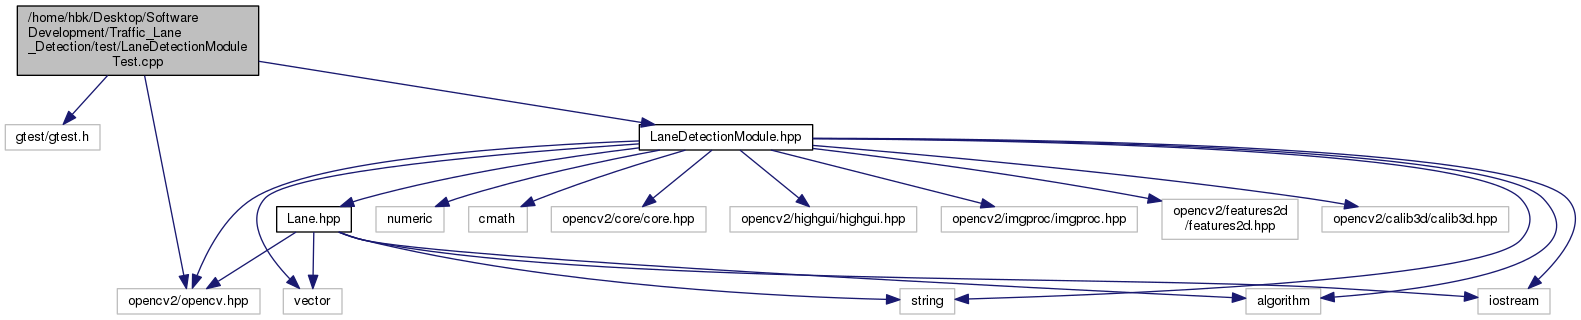
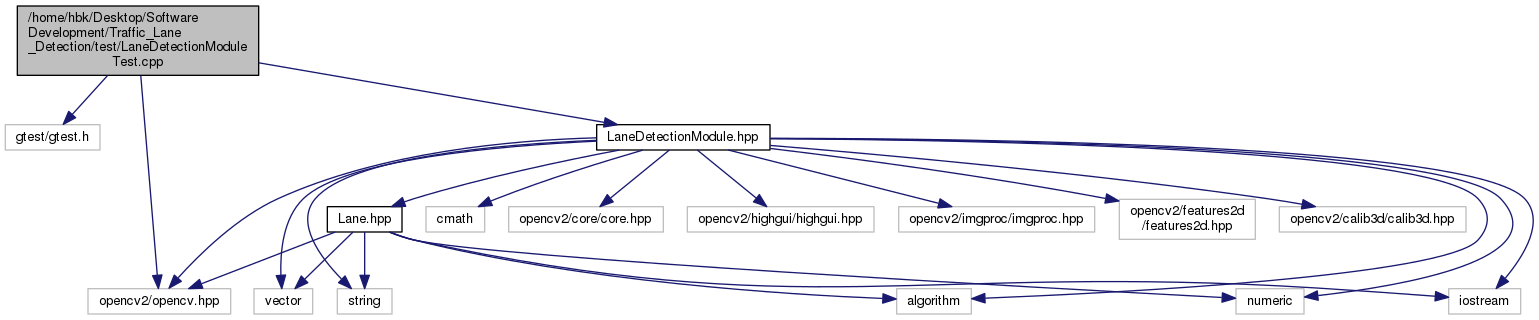
Doc:[Task Doc_2_06] Update Doxygen files

diff --git a/Doxygen/html/Lane_8hpp_source.html b/Doxygen/html/Lane_8hpp_source.html
@@ -88,7 +88,7 @@ var searchBox = new SearchBox("searchBox", "search",false,'Search');
 <div class="title">Lane.hpp</div>  </div>
 </div><!--header-->
 <div class="contents">
-<a href="Lane_8hpp.html">Go to the documentation of this file.</a><div class="fragment"><div class="line"><a name="l00001"></a><span class="lineno">    1</span>&#160;<span class="comment">/************************************************************************</span></div><div class="line"><a name="l00002"></a><span class="lineno">    2</span>&#160;<span class="comment"> MIT License</span></div><div class="line"><a name="l00003"></a><span class="lineno">    3</span>&#160;<span class="comment"></span></div><div class="line"><a name="l00004"></a><span class="lineno">    4</span>&#160;<span class="comment"> Copyright (c) 2018 Harsh Kakashaniya, Rohitkrishna Nambiar</span></div><div class="line"><a name="l00005"></a><span class="lineno">    5</span>&#160;<span class="comment"></span></div><div class="line"><a name="l00006"></a><span class="lineno">    6</span>&#160;<span class="comment"> Permission is hereby granted, free of charge, to any person obtaining a copy</span></div><div class="line"><a name="l00007"></a><span class="lineno">    7</span>&#160;<span class="comment"> of this software and associated documentation files (the &quot;Software&quot;), to deal</span></div><div class="line"><a name="l00008"></a><span class="lineno">    8</span>&#160;<span class="comment"> in the Software without restriction, including without limitation the rights</span></div><div class="line"><a name="l00009"></a><span class="lineno">    9</span>&#160;<span class="comment"> to use, copy, modify, merge, publish, distribute, sublicense, and/or sell</span></div><div class="line"><a name="l00010"></a><span class="lineno">   10</span>&#160;<span class="comment"> copies of the Software, and to permit persons to whom the Software is</span></div><div class="line"><a name="l00011"></a><span class="lineno">   11</span>&#160;<span class="comment"> furnished to do so, subject to the following conditions:</span></div><div class="line"><a name="l00012"></a><span class="lineno">   12</span>&#160;<span class="comment"></span></div><div class="line"><a name="l00013"></a><span class="lineno">   13</span>&#160;<span class="comment"> The above copyright notice and this permission notice shall be included in all</span></div><div class="line"><a name="l00014"></a><span class="lineno">   14</span>&#160;<span class="comment"> copies or substantial portions of the Software.</span></div><div class="line"><a name="l00015"></a><span class="lineno">   15</span>&#160;<span class="comment"></span></div><div class="line"><a name="l00016"></a><span class="lineno">   16</span>&#160;<span class="comment"> THE SOFTWARE IS PROVIDED &quot;AS IS&quot;, WITHOUT WARRANTY OF ANY KIND, EXPRESS OR</span></div><div class="line"><a name="l00017"></a><span class="lineno">   17</span>&#160;<span class="comment"> IMPLIED, INCLUDING BUT NOT LIMITED TO THE WARRANTIES OF MERCHANTABILITY,</span></div><div class="line"><a name="l00018"></a><span class="lineno">   18</span>&#160;<span class="comment"> FITNESS FOR A PARTICULAR PURPOSE AND NONINFRINGEMENT. IN NO EVENT SHALL THE</span></div><div class="line"><a name="l00019"></a><span class="lineno">   19</span>&#160;<span class="comment"> AUTHORS OR COPYRIGHT HOLDERS BE LIABLE FOR ANY CLAIM, DAMAGES OR OTHER</span></div><div class="line"><a name="l00020"></a><span class="lineno">   20</span>&#160;<span class="comment"> LIABILITY, WHETHER IN AN ACTION OF CONTRACT, TORT OR OTHERWISE, ARISING FROM,</span></div><div class="line"><a name="l00021"></a><span class="lineno">   21</span>&#160;<span class="comment"> OUT OF OR IN CONNECTION WITH THE SOFTWARE OR THE USE OR OTHER DEALINGS IN THE</span></div><div class="line"><a name="l00022"></a><span class="lineno">   22</span>&#160;<span class="comment"> SOFTWARE.</span></div><div class="line"><a name="l00023"></a><span class="lineno">   23</span>&#160;<span class="comment"> *************************************************************************/</span></div><div class="line"><a name="l00024"></a><span class="lineno">   24</span>&#160;</div><div class="line"><a name="l00040"></a><span class="lineno">   40</span>&#160;<span class="preprocessor">#ifndef INCLUDE_LANE_HPP_</span></div><div class="line"><a name="l00041"></a><span class="lineno">   41</span>&#160;<span class="preprocessor">#define INCLUDE_LANE_HPP_</span></div><div class="line"><a name="l00042"></a><span class="lineno">   42</span>&#160;</div><div class="line"><a name="l00043"></a><span class="lineno">   43</span>&#160;<span class="preprocessor">#include &lt;iostream&gt;</span></div><div class="line"><a name="l00044"></a><span class="lineno">   44</span>&#160;<span class="preprocessor">#include &lt;vector&gt;</span></div><div class="line"><a name="l00045"></a><span class="lineno">   45</span>&#160;<span class="preprocessor">#include &lt;string&gt;</span></div><div class="line"><a name="l00046"></a><span class="lineno">   46</span>&#160;<span class="preprocessor">#include &lt;algorithm&gt;</span></div><div class="line"><a name="l00047"></a><span class="lineno">   47</span>&#160;<span class="preprocessor">#include &lt;opencv2/opencv.hpp&gt;</span></div><div class="line"><a name="l00048"></a><span class="lineno">   48</span>&#160;</div><div class="line"><a name="l00049"></a><span class="lineno"><a class="line" href="classLane.html">   49</a></span>&#160;<span class="keyword">class </span><a class="code" href="classLane.html">Lane</a> {</div><div class="line"><a name="l00050"></a><span class="lineno">   50</span>&#160; <span class="keyword">public</span>:</div><div class="line"><a name="l00056"></a><span class="lineno">   56</span>&#160;  <a class="code" href="classLane.html#affd642d537d96c03cb7fe8c8d46d37b4">Lane</a>();</div><div class="line"><a name="l00057"></a><span class="lineno">   57</span>&#160;</div><div class="line"><a name="l00067"></a><span class="lineno">   67</span>&#160;  <a class="code" href="classLane.html#affd642d537d96c03cb7fe8c8d46d37b4">Lane</a>(<span class="keywordtype">int</span> polyOrder, std::string color, <span class="keywordtype">int</span> averagingCount);</div><div class="line"><a name="l00068"></a><span class="lineno">   68</span>&#160;</div><div class="line"><a name="l00072"></a><span class="lineno">   72</span>&#160;  <a class="code" href="classLane.html#a1c023c4eca02fb9a52365b7f6c04d7d4">~Lane</a>();</div><div class="line"><a name="l00073"></a><span class="lineno">   73</span>&#160;</div><div class="line"><a name="l00074"></a><span class="lineno">   74</span>&#160;  <span class="comment">/*</span></div><div class="line"><a name="l00075"></a><span class="lineno">   75</span>&#160;<span class="comment">   *  @brief Calculates the center x-coordinate averageof the first sliding</span></div><div class="line"><a name="l00076"></a><span class="lineno">   76</span>&#160;<span class="comment">   *        window</span></div><div class="line"><a name="l00077"></a><span class="lineno">   77</span>&#160;<span class="comment">   *</span></div><div class="line"><a name="l00078"></a><span class="lineno">   78</span>&#160;<span class="comment">   *  @param coordinate is current x-center co-ordinate</span></div><div class="line"><a name="l00079"></a><span class="lineno">   79</span>&#160;<span class="comment">   *</span></div><div class="line"><a name="l00080"></a><span class="lineno">   80</span>&#160;<span class="comment">   *  @return averaged x-coordinate</span></div><div class="line"><a name="l00081"></a><span class="lineno">   81</span>&#160;<span class="comment">   */</span></div><div class="line"><a name="l00082"></a><span class="lineno">   82</span>&#160;  <span class="keywordtype">int</span> getStableCenter(<span class="keywordtype">int</span> coordinate);</div><div class="line"><a name="l00083"></a><span class="lineno">   83</span>&#160;</div><div class="line"><a name="l00084"></a><span class="lineno">   84</span>&#160;  <span class="comment">/*</span></div><div class="line"><a name="l00085"></a><span class="lineno">   85</span>&#160;<span class="comment">   *  @brief Sets the center coordinate of the first sliding window</span></div><div class="line"><a name="l00086"></a><span class="lineno">   86</span>&#160;<span class="comment">   *</span></div><div class="line"><a name="l00087"></a><span class="lineno">   87</span>&#160;<span class="comment">   *  @param point is current center co-ordinate</span></div><div class="line"><a name="l00088"></a><span class="lineno">   88</span>&#160;<span class="comment">   *</span></div><div class="line"><a name="l00089"></a><span class="lineno">   89</span>&#160;<span class="comment">   */</span></div><div class="line"><a name="l00090"></a><span class="lineno">   90</span>&#160;  <span class="keywordtype">void</span> setStartCoordinate(cv::Point point);</div><div class="line"><a name="l00091"></a><span class="lineno">   91</span>&#160;</div><div class="line"><a name="l00092"></a><span class="lineno">   92</span>&#160;  <span class="comment">/*</span></div><div class="line"><a name="l00093"></a><span class="lineno">   93</span>&#160;<span class="comment">   *  @brief Gets the center coordinate of the first sliding window</span></div><div class="line"><a name="l00094"></a><span class="lineno">   94</span>&#160;<span class="comment">   *</span></div><div class="line"><a name="l00095"></a><span class="lineno">   95</span>&#160;<span class="comment">   *  @return Center coordinate of the first sliding window(lane)</span></div><div class="line"><a name="l00096"></a><span class="lineno">   96</span>&#160;<span class="comment">   */</span></div><div class="line"><a name="l00097"></a><span class="lineno">   97</span>&#160;  cv::Point getStartCoordinate();</div><div class="line"><a name="l00098"></a><span class="lineno">   98</span>&#160;</div><div class="line"><a name="l00099"></a><span class="lineno">   99</span>&#160;  <span class="comment">/*</span></div><div class="line"><a name="l00100"></a><span class="lineno">  100</span>&#160;<span class="comment">   *  @brief Sets the status of lane</span></div><div class="line"><a name="l00101"></a><span class="lineno">  101</span>&#160;<span class="comment">   *</span></div><div class="line"><a name="l00102"></a><span class="lineno">  102</span>&#160;<span class="comment">   *  @param flag is the status of the lane if polynomial found</span></div><div class="line"><a name="l00103"></a><span class="lineno">  103</span>&#160;<span class="comment">   */</span></div><div class="line"><a name="l00104"></a><span class="lineno">  104</span>&#160;  <span class="keywordtype">void</span> setStatus(<span class="keywordtype">bool</span> flag);</div><div class="line"><a name="l00105"></a><span class="lineno">  105</span>&#160;</div><div class="line"><a name="l00106"></a><span class="lineno">  106</span>&#160;  <span class="comment">/*</span></div><div class="line"><a name="l00107"></a><span class="lineno">  107</span>&#160;<span class="comment">   *  @brief Gets the status of lane</span></div><div class="line"><a name="l00108"></a><span class="lineno">  108</span>&#160;<span class="comment">   *</span></div><div class="line"><a name="l00109"></a><span class="lineno">  109</span>&#160;<span class="comment">   *  @return status of the lane</span></div><div class="line"><a name="l00110"></a><span class="lineno">  110</span>&#160;<span class="comment">   */</span></div><div class="line"><a name="l00111"></a><span class="lineno">  111</span>&#160;  <span class="keywordtype">bool</span> getStatus();</div><div class="line"><a name="l00112"></a><span class="lineno">  112</span>&#160;</div><div class="line"><a name="l00113"></a><span class="lineno">  113</span>&#160;  <span class="comment">/*</span></div><div class="line"><a name="l00114"></a><span class="lineno">  114</span>&#160;<span class="comment">   *  @brief Sets the polyOrder of lane</span></div><div class="line"><a name="l00115"></a><span class="lineno">  115</span>&#160;<span class="comment">   *</span></div><div class="line"><a name="l00116"></a><span class="lineno">  116</span>&#160;<span class="comment">   *  @param value is the polyorder of lane</span></div><div class="line"><a name="l00117"></a><span class="lineno">  117</span>&#160;<span class="comment">   */</span></div><div class="line"><a name="l00118"></a><span class="lineno">  118</span>&#160;  <span class="keywordtype">void</span> setPolyOrder(<span class="keywordtype">int</span> value);</div><div class="line"><a name="l00119"></a><span class="lineno">  119</span>&#160;</div><div class="line"><a name="l00120"></a><span class="lineno">  120</span>&#160;  <span class="comment">/*</span></div><div class="line"><a name="l00121"></a><span class="lineno">  121</span>&#160;<span class="comment">   *  @brief Gets the polyOrder of lane</span></div><div class="line"><a name="l00122"></a><span class="lineno">  122</span>&#160;<span class="comment">   *</span></div><div class="line"><a name="l00123"></a><span class="lineno">  123</span>&#160;<span class="comment">   *  @return value is the polyorder of lane</span></div><div class="line"><a name="l00124"></a><span class="lineno">  124</span>&#160;<span class="comment">   */</span></div><div class="line"><a name="l00125"></a><span class="lineno">  125</span>&#160;  <span class="keywordtype">int</span> getPolyOrder();</div><div class="line"><a name="l00126"></a><span class="lineno">  126</span>&#160;</div><div class="line"><a name="l00127"></a><span class="lineno">  127</span>&#160;  <span class="comment">/*</span></div><div class="line"><a name="l00128"></a><span class="lineno">  128</span>&#160;<span class="comment">   *  @brief Sets the polynomial coeff of lane</span></div><div class="line"><a name="l00129"></a><span class="lineno">  129</span>&#160;<span class="comment">   *</span></div><div class="line"><a name="l00130"></a><span class="lineno">  130</span>&#160;<span class="comment">   *  @param coeff is a Mat(1x3) object containing coefficients</span></div><div class="line"><a name="l00131"></a><span class="lineno">  131</span>&#160;<span class="comment">   */</span></div><div class="line"><a name="l00132"></a><span class="lineno">  132</span>&#160;  <span class="keywordtype">void</span> setPolyCoeff(cv::Mat coeff);</div><div class="line"><a name="l00133"></a><span class="lineno">  133</span>&#160;</div><div class="line"><a name="l00134"></a><span class="lineno">  134</span>&#160;  <span class="comment">/*</span></div><div class="line"><a name="l00135"></a><span class="lineno">  135</span>&#160;<span class="comment">   *  @brief Gets the polynomial coeff of lane</span></div><div class="line"><a name="l00136"></a><span class="lineno">  136</span>&#160;<span class="comment">   *</span></div><div class="line"><a name="l00137"></a><span class="lineno">  137</span>&#160;<span class="comment">   *  @return vector containing coefficients</span></div><div class="line"><a name="l00138"></a><span class="lineno">  138</span>&#160;<span class="comment">   */</span></div><div class="line"><a name="l00139"></a><span class="lineno">  139</span>&#160;  std::vector&lt;float&gt; getPolyCoeff();</div><div class="line"><a name="l00140"></a><span class="lineno">  140</span>&#160;</div><div class="line"><a name="l00141"></a><span class="lineno">  141</span>&#160; <span class="keyword">private</span>:</div><div class="line"><a name="l00142"></a><span class="lineno">  142</span>&#160;  <span class="keywordtype">int</span> polyOrder;  <span class="comment">// declare integer for order of line.</span></div><div class="line"><a name="l00143"></a><span class="lineno">  143</span>&#160;  std::string colour;  <span class="comment">// set RGB values for lane colour.</span></div><div class="line"><a name="l00144"></a><span class="lineno">  144</span>&#160;  std::vector&lt;float&gt; polyCoeff;  <span class="comment">// Coefficients for equation</span></div><div class="line"><a name="l00145"></a><span class="lineno">  145</span>&#160;  cv::Point startCoordinates;  <span class="comment">// Reference coordinates for line.</span></div><div class="line"><a name="l00146"></a><span class="lineno">  146</span>&#160;</div><div class="line"><a name="l00147"></a><span class="lineno">  147</span>&#160;  <span class="comment">// Average center to prevent jumps for entire run</span></div><div class="line"><a name="l00148"></a><span class="lineno">  148</span>&#160;  std::vector&lt;int&gt; averagingCenter;</div><div class="line"><a name="l00149"></a><span class="lineno">  149</span>&#160;  <span class="keywordtype">int</span> averagingCount;</div><div class="line"><a name="l00150"></a><span class="lineno">  150</span>&#160;  <span class="keywordtype">int</span> currentAveragingIndex;</div><div class="line"><a name="l00151"></a><span class="lineno">  151</span>&#160;  <span class="keywordtype">bool</span> status;  <span class="comment">// For status for program.</span></div><div class="line"><a name="l00152"></a><span class="lineno">  152</span>&#160;};</div><div class="line"><a name="l00153"></a><span class="lineno">  153</span>&#160;</div><div class="line"><a name="l00154"></a><span class="lineno">  154</span>&#160;<span class="preprocessor">#endif  // INCLUDE_LANE_HPP_</span></div><div class="ttc" id="classLane_html"><div class="ttname"><a href="classLane.html">Lane</a></div><div class="ttdef"><b>Definition:</b> Lane.hpp:49</div></div>
+<a href="Lane_8hpp.html">Go to the documentation of this file.</a><div class="fragment"><div class="line"><a name="l00001"></a><span class="lineno">    1</span>&#160;<span class="comment">/************************************************************************</span></div><div class="line"><a name="l00002"></a><span class="lineno">    2</span>&#160;<span class="comment"> MIT License</span></div><div class="line"><a name="l00003"></a><span class="lineno">    3</span>&#160;<span class="comment"></span></div><div class="line"><a name="l00004"></a><span class="lineno">    4</span>&#160;<span class="comment"> Copyright (c) 2018 Harsh Kakashaniya, Rohitkrishna Nambiar</span></div><div class="line"><a name="l00005"></a><span class="lineno">    5</span>&#160;<span class="comment"></span></div><div class="line"><a name="l00006"></a><span class="lineno">    6</span>&#160;<span class="comment"> Permission is hereby granted, free of charge, to any person obtaining a copy</span></div><div class="line"><a name="l00007"></a><span class="lineno">    7</span>&#160;<span class="comment"> of this software and associated documentation files (the &quot;Software&quot;), to deal</span></div><div class="line"><a name="l00008"></a><span class="lineno">    8</span>&#160;<span class="comment"> in the Software without restriction, including without limitation the rights</span></div><div class="line"><a name="l00009"></a><span class="lineno">    9</span>&#160;<span class="comment"> to use, copy, modify, merge, publish, distribute, sublicense, and/or sell</span></div><div class="line"><a name="l00010"></a><span class="lineno">   10</span>&#160;<span class="comment"> copies of the Software, and to permit persons to whom the Software is</span></div><div class="line"><a name="l00011"></a><span class="lineno">   11</span>&#160;<span class="comment"> furnished to do so, subject to the following conditions:</span></div><div class="line"><a name="l00012"></a><span class="lineno">   12</span>&#160;<span class="comment"></span></div><div class="line"><a name="l00013"></a><span class="lineno">   13</span>&#160;<span class="comment"> The above copyright notice and this permission notice shall be included in all</span></div><div class="line"><a name="l00014"></a><span class="lineno">   14</span>&#160;<span class="comment"> copies or substantial portions of the Software.</span></div><div class="line"><a name="l00015"></a><span class="lineno">   15</span>&#160;<span class="comment"></span></div><div class="line"><a name="l00016"></a><span class="lineno">   16</span>&#160;<span class="comment"> THE SOFTWARE IS PROVIDED &quot;AS IS&quot;, WITHOUT WARRANTY OF ANY KIND, EXPRESS OR</span></div><div class="line"><a name="l00017"></a><span class="lineno">   17</span>&#160;<span class="comment"> IMPLIED, INCLUDING BUT NOT LIMITED TO THE WARRANTIES OF MERCHANTABILITY,</span></div><div class="line"><a name="l00018"></a><span class="lineno">   18</span>&#160;<span class="comment"> FITNESS FOR A PARTICULAR PURPOSE AND NONINFRINGEMENT. IN NO EVENT SHALL THE</span></div><div class="line"><a name="l00019"></a><span class="lineno">   19</span>&#160;<span class="comment"> AUTHORS OR COPYRIGHT HOLDERS BE LIABLE FOR ANY CLAIM, DAMAGES OR OTHER</span></div><div class="line"><a name="l00020"></a><span class="lineno">   20</span>&#160;<span class="comment"> LIABILITY, WHETHER IN AN ACTION OF CONTRACT, TORT OR OTHERWISE, ARISING FROM,</span></div><div class="line"><a name="l00021"></a><span class="lineno">   21</span>&#160;<span class="comment"> OUT OF OR IN CONNECTION WITH THE SOFTWARE OR THE USE OR OTHER DEALINGS IN THE</span></div><div class="line"><a name="l00022"></a><span class="lineno">   22</span>&#160;<span class="comment"> SOFTWARE.</span></div><div class="line"><a name="l00023"></a><span class="lineno">   23</span>&#160;<span class="comment"> *************************************************************************/</span></div><div class="line"><a name="l00024"></a><span class="lineno">   24</span>&#160;</div><div class="line"><a name="l00040"></a><span class="lineno">   40</span>&#160;<span class="preprocessor">#ifndef INCLUDE_LANE_HPP_</span></div><div class="line"><a name="l00041"></a><span class="lineno">   41</span>&#160;<span class="preprocessor">#define INCLUDE_LANE_HPP_</span></div><div class="line"><a name="l00042"></a><span class="lineno">   42</span>&#160;</div><div class="line"><a name="l00043"></a><span class="lineno">   43</span>&#160;<span class="preprocessor">#include &lt;iostream&gt;</span></div><div class="line"><a name="l00044"></a><span class="lineno">   44</span>&#160;<span class="preprocessor">#include &lt;vector&gt;</span></div><div class="line"><a name="l00045"></a><span class="lineno">   45</span>&#160;<span class="preprocessor">#include &lt;string&gt;</span></div><div class="line"><a name="l00046"></a><span class="lineno">   46</span>&#160;<span class="preprocessor">#include &lt;numeric&gt;</span></div><div class="line"><a name="l00047"></a><span class="lineno">   47</span>&#160;<span class="preprocessor">#include &lt;algorithm&gt;</span></div><div class="line"><a name="l00048"></a><span class="lineno">   48</span>&#160;<span class="preprocessor">#include &lt;opencv2/opencv.hpp&gt;</span></div><div class="line"><a name="l00049"></a><span class="lineno">   49</span>&#160;</div><div class="line"><a name="l00050"></a><span class="lineno"><a class="line" href="classLane.html">   50</a></span>&#160;<span class="keyword">class </span><a class="code" href="classLane.html">Lane</a> {</div><div class="line"><a name="l00051"></a><span class="lineno">   51</span>&#160; <span class="keyword">public</span>:</div><div class="line"><a name="l00057"></a><span class="lineno">   57</span>&#160;  <a class="code" href="classLane.html#affd642d537d96c03cb7fe8c8d46d37b4">Lane</a>();</div><div class="line"><a name="l00058"></a><span class="lineno">   58</span>&#160;</div><div class="line"><a name="l00068"></a><span class="lineno">   68</span>&#160;  <a class="code" href="classLane.html#affd642d537d96c03cb7fe8c8d46d37b4">Lane</a>(<span class="keywordtype">int</span> polyOrder, std::string color, <span class="keywordtype">int</span> averagingCount);</div><div class="line"><a name="l00069"></a><span class="lineno">   69</span>&#160;</div><div class="line"><a name="l00073"></a><span class="lineno">   73</span>&#160;  <a class="code" href="classLane.html#a1c023c4eca02fb9a52365b7f6c04d7d4">~Lane</a>();</div><div class="line"><a name="l00074"></a><span class="lineno">   74</span>&#160;</div><div class="line"><a name="l00075"></a><span class="lineno">   75</span>&#160;  <span class="comment">/*</span></div><div class="line"><a name="l00076"></a><span class="lineno">   76</span>&#160;<span class="comment">   *  @brief Calculates the center x-coordinate averageof the first sliding</span></div><div class="line"><a name="l00077"></a><span class="lineno">   77</span>&#160;<span class="comment">   *        window</span></div><div class="line"><a name="l00078"></a><span class="lineno">   78</span>&#160;<span class="comment">   *</span></div><div class="line"><a name="l00079"></a><span class="lineno">   79</span>&#160;<span class="comment">   *  @param coordinate is current x-center co-ordinate</span></div><div class="line"><a name="l00080"></a><span class="lineno">   80</span>&#160;<span class="comment">   *</span></div><div class="line"><a name="l00081"></a><span class="lineno">   81</span>&#160;<span class="comment">   *  @return averaged x-coordinate</span></div><div class="line"><a name="l00082"></a><span class="lineno">   82</span>&#160;<span class="comment">   */</span></div><div class="line"><a name="l00083"></a><span class="lineno">   83</span>&#160;  <span class="keywordtype">int</span> getStableCenter(<span class="keywordtype">int</span> coordinate);</div><div class="line"><a name="l00084"></a><span class="lineno">   84</span>&#160;</div><div class="line"><a name="l00085"></a><span class="lineno">   85</span>&#160;  <span class="comment">/*</span></div><div class="line"><a name="l00086"></a><span class="lineno">   86</span>&#160;<span class="comment">   *  @brief Sets the center coordinate of the first sliding window</span></div><div class="line"><a name="l00087"></a><span class="lineno">   87</span>&#160;<span class="comment">   *</span></div><div class="line"><a name="l00088"></a><span class="lineno">   88</span>&#160;<span class="comment">   *  @param point is current center co-ordinate</span></div><div class="line"><a name="l00089"></a><span class="lineno">   89</span>&#160;<span class="comment">   *</span></div><div class="line"><a name="l00090"></a><span class="lineno">   90</span>&#160;<span class="comment">   */</span></div><div class="line"><a name="l00091"></a><span class="lineno">   91</span>&#160;  <span class="keywordtype">void</span> setStartCoordinate(cv::Point point);</div><div class="line"><a name="l00092"></a><span class="lineno">   92</span>&#160;</div><div class="line"><a name="l00093"></a><span class="lineno">   93</span>&#160;  <span class="comment">/*</span></div><div class="line"><a name="l00094"></a><span class="lineno">   94</span>&#160;<span class="comment">   *  @brief Gets the center coordinate of the first sliding window</span></div><div class="line"><a name="l00095"></a><span class="lineno">   95</span>&#160;<span class="comment">   *</span></div><div class="line"><a name="l00096"></a><span class="lineno">   96</span>&#160;<span class="comment">   *  @return Center coordinate of the first sliding window(lane)</span></div><div class="line"><a name="l00097"></a><span class="lineno">   97</span>&#160;<span class="comment">   */</span></div><div class="line"><a name="l00098"></a><span class="lineno">   98</span>&#160;  cv::Point getStartCoordinate();</div><div class="line"><a name="l00099"></a><span class="lineno">   99</span>&#160;</div><div class="line"><a name="l00100"></a><span class="lineno">  100</span>&#160;  <span class="comment">/*</span></div><div class="line"><a name="l00101"></a><span class="lineno">  101</span>&#160;<span class="comment">   *  @brief Sets the status of lane</span></div><div class="line"><a name="l00102"></a><span class="lineno">  102</span>&#160;<span class="comment">   *</span></div><div class="line"><a name="l00103"></a><span class="lineno">  103</span>&#160;<span class="comment">   *  @param flag is the status of the lane if polynomial found</span></div><div class="line"><a name="l00104"></a><span class="lineno">  104</span>&#160;<span class="comment">   */</span></div><div class="line"><a name="l00105"></a><span class="lineno">  105</span>&#160;  <span class="keywordtype">void</span> setStatus(<span class="keywordtype">bool</span> flag);</div><div class="line"><a name="l00106"></a><span class="lineno">  106</span>&#160;</div><div class="line"><a name="l00107"></a><span class="lineno">  107</span>&#160;  <span class="comment">/*</span></div><div class="line"><a name="l00108"></a><span class="lineno">  108</span>&#160;<span class="comment">   *  @brief Gets the status of lane</span></div><div class="line"><a name="l00109"></a><span class="lineno">  109</span>&#160;<span class="comment">   *</span></div><div class="line"><a name="l00110"></a><span class="lineno">  110</span>&#160;<span class="comment">   *  @return status of the lane</span></div><div class="line"><a name="l00111"></a><span class="lineno">  111</span>&#160;<span class="comment">   */</span></div><div class="line"><a name="l00112"></a><span class="lineno">  112</span>&#160;  <span class="keywordtype">bool</span> getStatus();</div><div class="line"><a name="l00113"></a><span class="lineno">  113</span>&#160;</div><div class="line"><a name="l00114"></a><span class="lineno">  114</span>&#160;  <span class="comment">/*</span></div><div class="line"><a name="l00115"></a><span class="lineno">  115</span>&#160;<span class="comment">   *  @brief Sets the polyOrder of lane</span></div><div class="line"><a name="l00116"></a><span class="lineno">  116</span>&#160;<span class="comment">   *</span></div><div class="line"><a name="l00117"></a><span class="lineno">  117</span>&#160;<span class="comment">   *  @param value is the polyorder of lane</span></div><div class="line"><a name="l00118"></a><span class="lineno">  118</span>&#160;<span class="comment">   */</span></div><div class="line"><a name="l00119"></a><span class="lineno">  119</span>&#160;  <span class="keywordtype">void</span> setPolyOrder(<span class="keywordtype">int</span> value);</div><div class="line"><a name="l00120"></a><span class="lineno">  120</span>&#160;</div><div class="line"><a name="l00121"></a><span class="lineno">  121</span>&#160;  <span class="comment">/*</span></div><div class="line"><a name="l00122"></a><span class="lineno">  122</span>&#160;<span class="comment">   *  @brief Gets the polyOrder of lane</span></div><div class="line"><a name="l00123"></a><span class="lineno">  123</span>&#160;<span class="comment">   *</span></div><div class="line"><a name="l00124"></a><span class="lineno">  124</span>&#160;<span class="comment">   *  @return value is the polyorder of lane</span></div><div class="line"><a name="l00125"></a><span class="lineno">  125</span>&#160;<span class="comment">   */</span></div><div class="line"><a name="l00126"></a><span class="lineno">  126</span>&#160;  <span class="keywordtype">int</span> getPolyOrder();</div><div class="line"><a name="l00127"></a><span class="lineno">  127</span>&#160;</div><div class="line"><a name="l00128"></a><span class="lineno">  128</span>&#160;  <span class="comment">/*</span></div><div class="line"><a name="l00129"></a><span class="lineno">  129</span>&#160;<span class="comment">   *  @brief Sets the polynomial coeff of lane</span></div><div class="line"><a name="l00130"></a><span class="lineno">  130</span>&#160;<span class="comment">   *</span></div><div class="line"><a name="l00131"></a><span class="lineno">  131</span>&#160;<span class="comment">   *  @param coeff is a Mat(1x3) object containing coefficients</span></div><div class="line"><a name="l00132"></a><span class="lineno">  132</span>&#160;<span class="comment">   */</span></div><div class="line"><a name="l00133"></a><span class="lineno">  133</span>&#160;  <span class="keywordtype">void</span> setPolyCoeff(cv::Mat coeff);</div><div class="line"><a name="l00134"></a><span class="lineno">  134</span>&#160;</div><div class="line"><a name="l00135"></a><span class="lineno">  135</span>&#160;  <span class="comment">/*</span></div><div class="line"><a name="l00136"></a><span class="lineno">  136</span>&#160;<span class="comment">   *  @brief Gets the polynomial coeff of lane</span></div><div class="line"><a name="l00137"></a><span class="lineno">  137</span>&#160;<span class="comment">   *</span></div><div class="line"><a name="l00138"></a><span class="lineno">  138</span>&#160;<span class="comment">   *  @return vector containing coefficients</span></div><div class="line"><a name="l00139"></a><span class="lineno">  139</span>&#160;<span class="comment">   */</span></div><div class="line"><a name="l00140"></a><span class="lineno">  140</span>&#160;  std::vector&lt;float&gt; getPolyCoeff();</div><div class="line"><a name="l00141"></a><span class="lineno">  141</span>&#160;</div><div class="line"><a name="l00142"></a><span class="lineno">  142</span>&#160; <span class="keyword">private</span>:</div><div class="line"><a name="l00143"></a><span class="lineno">  143</span>&#160;  <span class="keywordtype">int</span> polyOrder;  <span class="comment">// declare integer for order of line.</span></div><div class="line"><a name="l00144"></a><span class="lineno">  144</span>&#160;  std::string colour;  <span class="comment">// set RGB values for lane colour.</span></div><div class="line"><a name="l00145"></a><span class="lineno">  145</span>&#160;  std::vector&lt;float&gt; polyCoeff;  <span class="comment">// Coefficients for equation</span></div><div class="line"><a name="l00146"></a><span class="lineno">  146</span>&#160;  cv::Point startCoordinates;  <span class="comment">// Reference coordinates for line.</span></div><div class="line"><a name="l00147"></a><span class="lineno">  147</span>&#160;</div><div class="line"><a name="l00148"></a><span class="lineno">  148</span>&#160;  <span class="comment">// Average center to prevent jumps for entire run</span></div><div class="line"><a name="l00149"></a><span class="lineno">  149</span>&#160;  std::vector&lt;int&gt; averagingCenter;</div><div class="line"><a name="l00150"></a><span class="lineno">  150</span>&#160;  <span class="keywordtype">int</span> averagingCount;</div><div class="line"><a name="l00151"></a><span class="lineno">  151</span>&#160;  <span class="keywordtype">int</span> currentAveragingIndex;</div><div class="line"><a name="l00152"></a><span class="lineno">  152</span>&#160;  <span class="keywordtype">bool</span> status;  <span class="comment">// For status for program.</span></div><div class="line"><a name="l00153"></a><span class="lineno">  153</span>&#160;};</div><div class="line"><a name="l00154"></a><span class="lineno">  154</span>&#160;</div><div class="line"><a name="l00155"></a><span class="lineno">  155</span>&#160;<span class="preprocessor">#endif  // INCLUDE_LANE_HPP_</span></div><div class="ttc" id="classLane_html"><div class="ttname"><a href="classLane.html">Lane</a></div><div class="ttdef"><b>Definition:</b> Lane.hpp:50</div></div>
 <div class="ttc" id="classLane_html_affd642d537d96c03cb7fe8c8d46d37b4"><div class="ttname"><a href="classLane.html#affd642d537d96c03cb7fe8c8d46d37b4">Lane::Lane</a></div><div class="ttdeci">Lane()</div><div class="ttdoc">Default constructor for Lane with ployorder,colour,polyCoeff,startCoordinate,status random values...</div></div>
 <div class="ttc" id="classLane_html_a1c023c4eca02fb9a52365b7f6c04d7d4"><div class="ttname"><a href="classLane.html#a1c023c4eca02fb9a52365b7f6c04d7d4">Lane::~Lane</a></div><div class="ttdeci">~Lane()</div><div class="ttdoc">Default destructor for Lane class. </div></div>
 </div><!-- fragment --></div><!-- contents -->

diff --git a/Doxygen/html/LaneDetectionModule_8hpp_source.html b/Doxygen/html/LaneDetectionModule_8hpp_source.html
@@ -94,7 +94,7 @@ var searchBox = new SearchBox("searchBox", "search",false,'Search');
 <div class="ttc" id="classLaneDetectionModule_html_a51c717f41ad97457213bbe2a079f3ece"><div class="ttname"><a href="classLaneDetectionModule.html#a51c717f41ad97457213bbe2a079f3ece">LaneDetectionModule::getGrayScaleMin</a></div><div class="ttdeci">int getGrayScaleMin()</div><div class="ttdoc">Method getGrayScaleMin is to use get min value of GrayScale for LaneDetectionModule. </div></div>
 <div class="ttc" id="classLaneDetectionModule_html_a9b31a2a27534fdefbcfb2de841a893c2"><div class="ttname"><a href="classLaneDetectionModule.html#a9b31a2a27534fdefbcfb2de841a893c2">LaneDetectionModule::getYellowMin</a></div><div class="ttdeci">cv::Scalar getYellowMin()</div><div class="ttdoc">Method getYellowMin is to use get HSL min value of yellow for LaneDetectionModule. </div></div>
 <div class="ttc" id="classLaneDetectionModule_html_a3b8c0ca214fbf200c25bd24194140afc"><div class="ttname"><a href="classLaneDetectionModule.html#a3b8c0ca214fbf200c25bd24194140afc">LaneDetectionModule::transformPerspective</a></div><div class="ttdeci">void transformPerspective(const cv::Mat &amp;src, cv::Mat &amp;dst, cv::Mat &amp;Tm, cv::Mat &amp;invTm)</div><div class="ttdoc">Method transforming perspective of lane image. </div></div>
-<div class="ttc" id="classLane_html"><div class="ttname"><a href="classLane.html">Lane</a></div><div class="ttdef"><b>Definition:</b> Lane.hpp:49</div></div>
+<div class="ttc" id="classLane_html"><div class="ttname"><a href="classLane.html">Lane</a></div><div class="ttdef"><b>Definition:</b> Lane.hpp:50</div></div>
 <div class="ttc" id="classLaneDetectionModule_html_a886adf9d2fdfac6f6f4794cb327ea73c"><div class="ttname"><a href="classLaneDetectionModule.html#a886adf9d2fdfac6f6f4794cb327ea73c">LaneDetectionModule::getGrayScaleMax</a></div><div class="ttdeci">int getGrayScaleMax()</div><div class="ttdoc">Method getGrayScaleMax is to use get max value of GrayScale for LaneDetectionModule. </div></div>
 <div class="ttc" id="classLaneDetectionModule_html_a7b98ab6e8187993381f2c69b03ca76ef"><div class="ttname"><a href="classLaneDetectionModule.html#a7b98ab6e8187993381f2c69b03ca76ef">LaneDetectionModule::detectLane</a></div><div class="ttdeci">bool detectLane(std::string videoName)</div><div class="ttdoc">Method detectLane check if program is successfully running gives bool output for LaneDetectionModule...</div></div>
 <div class="ttc" id="classLaneDetectionModule_html"><div class="ttname"><a href="classLaneDetectionModule.html">LaneDetectionModule</a></div><div class="ttdef"><b>Definition:</b> LaneDetectionModule.hpp:56</div></div>

diff --git a/Doxygen/html/LaneDetectionModuleTest_8cpp.html b/Doxygen/html/LaneDetectionModuleTest_8cpp.html
@@ -102,8 +102,8 @@ Include dependency graph for LaneDetectionModuleTest.cpp:</div>
 <div class="dyncontent">
 <div class="center"><img src="LaneDetectionModuleTest_8cpp__incl.png" border="0" usemap="#_2home_2hbk_2Desktop_2SoftwareDevelopment_2Traffic__Lane__Detection_2test_2LaneDetectionModuleTest_8cpp" alt=""/></div>
 <map name="_2home_2hbk_2Desktop_2SoftwareDevelopment_2Traffic__Lane__Detection_2test_2LaneDetectionModuleTest_8cpp" id="_2home_2hbk_2Desktop_2SoftwareDevelopment_2Traffic__Lane__Detection_2test_2LaneDetectionModuleTest_8cpp">
-<area shape="rect" id="node3" href="LaneDetectionModule_8hpp_source.html" title="LaneDetectionModule.hpp" alt="" coords="639,124,813,151"/>
-<area shape="rect" id="node16" href="Lane_8hpp.html" title="UMD ENPM 808X, Week 6, Midterm Project. " alt="" coords="277,206,351,233"/>
+<area shape="rect" id="node3" href="LaneDetectionModule_8hpp_source.html" title="LaneDetectionModule.hpp" alt="" coords="597,124,770,151"/>
+<area shape="rect" id="node16" href="Lane_8hpp.html" title="UMD ENPM 808X, Week 6, Midterm Project. " alt="" coords="327,206,402,233"/>
 </map>
 </div>
 </div><table class="memberdecls">

diff --git a/Doxygen/html/LaneTest_8cpp.html b/Doxygen/html/LaneTest_8cpp.html
@@ -102,7 +102,7 @@ Include dependency graph for LaneTest.cpp:</div>
 <div class="dyncontent">
 <div class="center"><img src="LaneTest_8cpp__incl.png" border="0" usemap="#_2home_2hbk_2Desktop_2SoftwareDevelopment_2Traffic__Lane__Detection_2test_2LaneTest_8cpp" alt=""/></div>
 <map name="_2home_2hbk_2Desktop_2SoftwareDevelopment_2Traffic__Lane__Detection_2test_2LaneTest_8cpp" id="_2home_2hbk_2Desktop_2SoftwareDevelopment_2Traffic__Lane__Detection_2test_2LaneTest_8cpp">
-<area shape="rect" id="node3" href="Lane_8hpp.html" title="UMD ENPM 808X, Week 6, Midterm Project. " alt="" coords="220,109,295,136"/>
+<area shape="rect" id="node3" href="Lane_8hpp.html" title="UMD ENPM 808X, Week 6, Midterm Project. " alt="" coords="260,109,335,136"/>
 </map>
 </div>
 </div><table class="memberdecls">

diff --git a/Doxygen/html/Lane_8hpp.html b/Doxygen/html/Lane_8hpp.html
@@ -96,6 +96,7 @@ var searchBox = new SearchBox("searchBox", "search",false,'Search');
 <div class="textblock"><code>#include &lt;iostream&gt;</code><br />
 <code>#include &lt;vector&gt;</code><br />
 <code>#include &lt;string&gt;</code><br />
+<code>#include &lt;numeric&gt;</code><br />
 <code>#include &lt;algorithm&gt;</code><br />
 <code>#include &lt;opencv2/opencv.hpp&gt;</code><br />
 </div><div class="textblock"><div class="dynheader">

diff --git a/Doxygen/latex/Lane_8hpp.tex b/Doxygen/latex/Lane_8hpp.tex
@@ -8,6 +8,7 @@ U\+MD E\+N\+PM 808X, Week 6, Midterm Project.
 {\ttfamily \#include $<$iostream$>$}\\*
 {\ttfamily \#include $<$vector$>$}\\*
 {\ttfamily \#include $<$string$>$}\\*
+{\ttfamily \#include $<$numeric$>$}\\*
 {\ttfamily \#include $<$algorithm$>$}\\*
 {\ttfamily \#include $<$opencv2/opencv.\+hpp$>$}\\*
 Include dependency graph for Lane.\+hpp\+:
